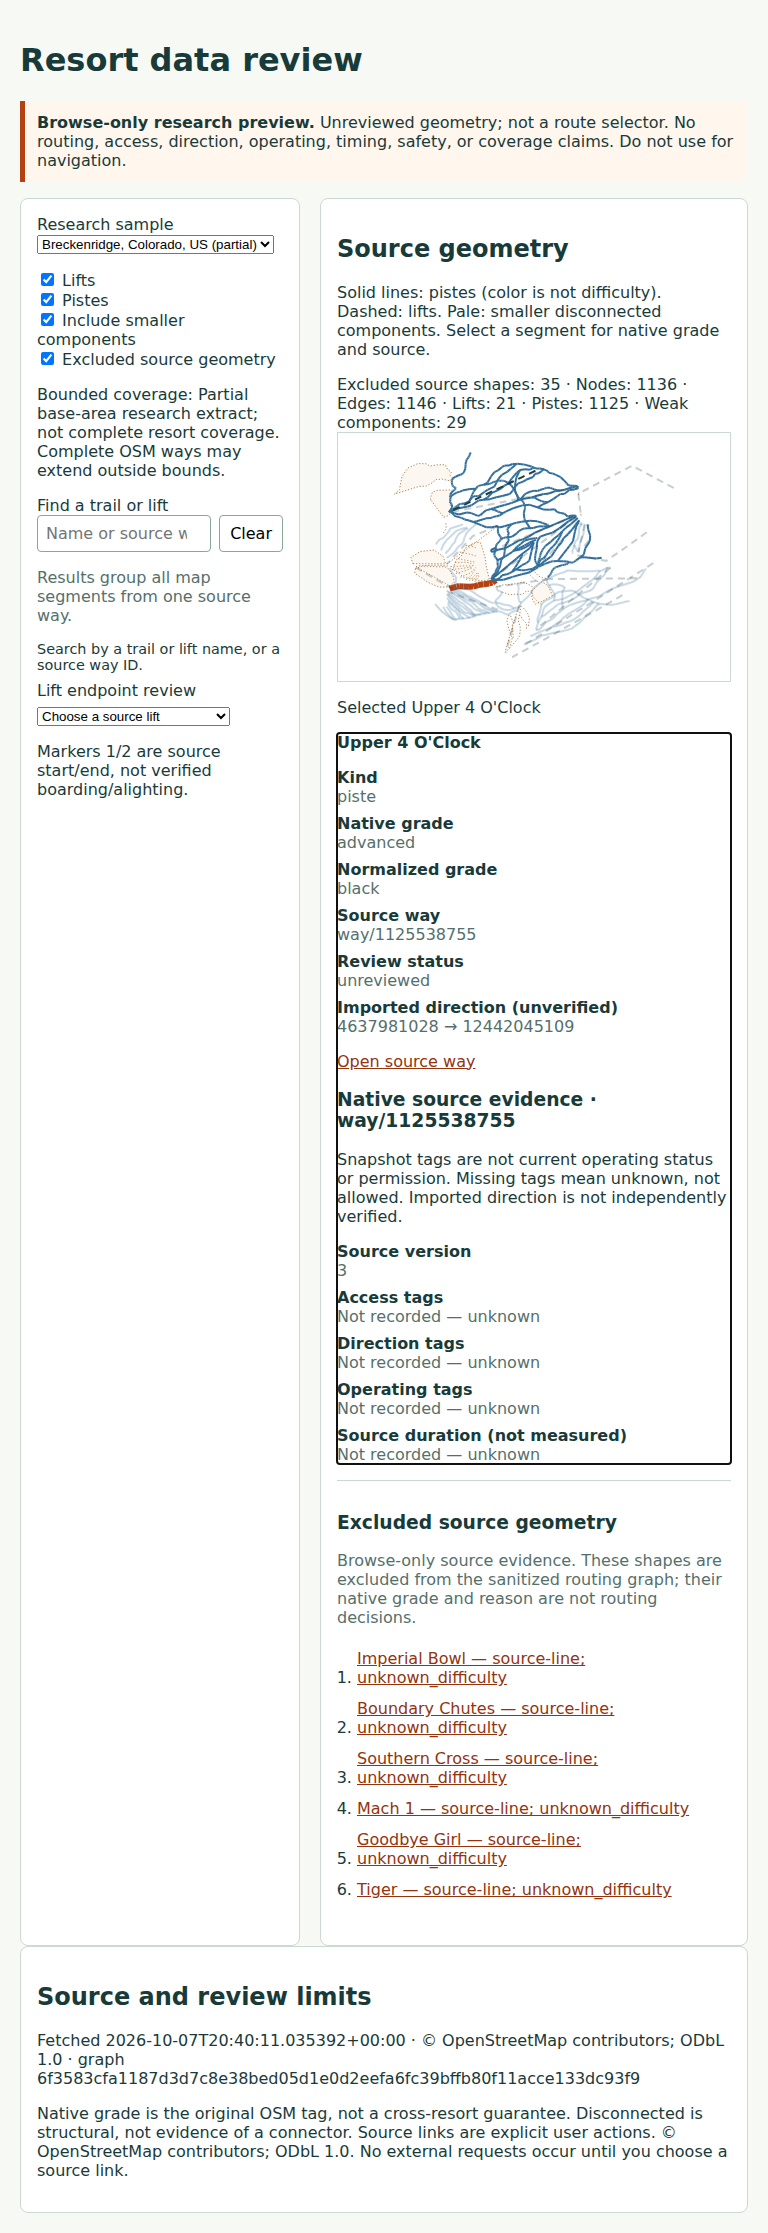
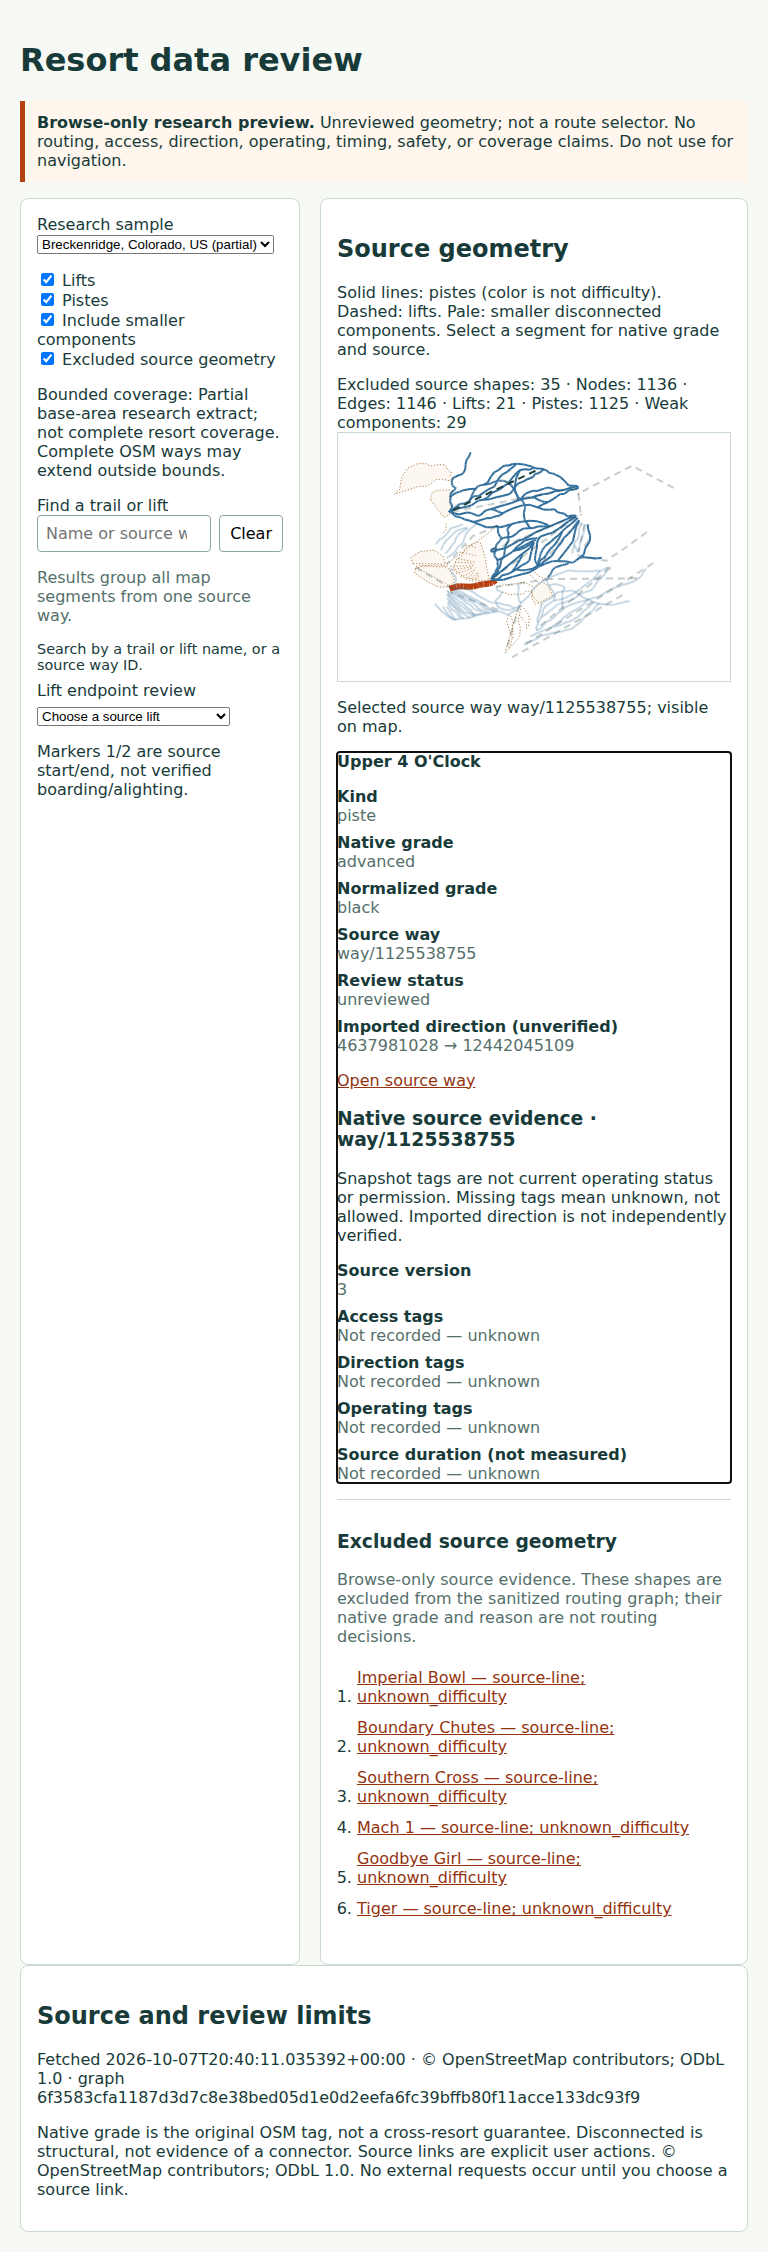
Keep resort search selection and visibility state consistent

diff --git a/web/resort-review.js b/web/resort-review.js
@@ -34,6 +34,7 @@ function comps(g) {
   return r;
 }
 function excludedDetail(e) {
+  selectedSource = null;
   E = null;
   L = null;
   $('lift-review').value = '';
@@ -159,6 +160,8 @@ function updateSearch() {
   }
 }
 function clearSegmentSelection() {
+  L = null;
+  $('lift-review').value = '';
   E = null;
   X = null;
   selectedSource = null;
@@ -173,7 +176,6 @@ function detail(e) {
   $('lift-detail').replaceChildren();
   E = e.id;
   selectedSource = sourceKey(e);
-  draw();
   let d = $('detail');
   d.replaceChildren();
   let b = document.createElement('b');
@@ -202,6 +204,7 @@ function detail(e) {
   d.append(dl, a);
   appendSourceEvidence(d, e.source_refs || []);
   $('status').textContent = 'Selected ' + (e.name || e.id);
+  draw();
   d.focus();
 }
 function draw() {
@@ -321,6 +324,9 @@ function draw() {
       $('status').classList.add('hidden-selection');
     } else {
       $('status').classList.remove('hidden-selection');
+      $('status').textContent = L
+        ? 'Reviewing ' + L.name + '; routing unchanged.'
+        : 'Selected source way ' + selectedSource + '; visible on map.';
     }
   } else {
     $('status').classList.remove('hidden-selection');
@@ -441,6 +447,7 @@ $('lift-review').onchange = () => {
   X = null;
   L = C.diagnostics?.lifts.find((l) => l.source_ref == $('lift-review').value) || null;
   E = L?.imported_edge_ids[0] || null;
+  selectedSource = L?.source_ref || null;
   $('detail').replaceChildren();
   $('lift-detail').replaceChildren();
   if (L) {

diff --git a/research/evidence/resort-review/README.md b/research/evidence/resort-review/README.md
@@ -31,3 +31,8 @@ direction, operating and duration tags for imported segments and selected lifts.
 Missing tags are explicitly unknown; neither a source tag nor imported edge
 orientation constitutes independent direction/access or current-status approval.
 These annotations are derived from hash-checked snapshots without modifying graphs.
+
+Search/selection transition checks cover selecting a filtered-out result, revealing
+it again, lift-to-search marker reset, search-to-lift highlighting and switching to
+excluded geometry. Each browser scenario restores its named sample after testing
+terrain changes; screenshots are not attributed to a previously selected resort.
